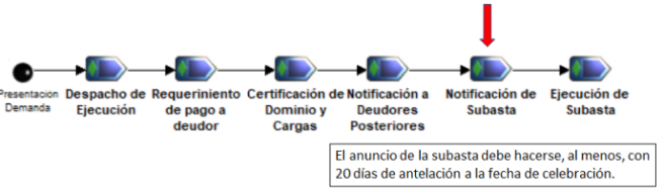
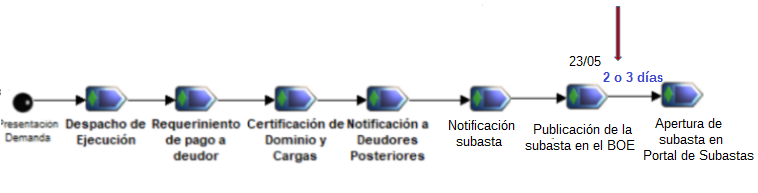
publio

Changed region(s): [[0.0, 0.0311, 0.994, 0.8394], [0.4819, 0.8705, 0.994, 0.9948], [0.7229, 0.0, 0.753, 0.2487]]

diff --git a/subasta/Informa/subasta.html b/subasta/Informa/subasta.html
@@ -13,13 +13,13 @@
 <h1>La ejecución hipotecaria</h1>
 <p>El acreedor hipotecario puede hacer efectivo su crédito a través de cuatro vías procesales una de las cuales es la ejecución (artículos 517 y siguientes de la Ley de Enjuiciamiento Civil (<a href="https://noticias.juridicas.com/base_datos/Privado/l1-2000.l3t1.html#l3" target="_blank">LEC</a>). (Se abre en una ventana nueva)
 </p>
-<p><img style="float:left;" src="../../Assets/images/Ejec.png" width="664" height="193" /> El gráfico muestra las diferentes etapas y el punto en que se encuentra el proceso: solo falta la publicación de la subasta, existiendo ya un <a href="../../Assets/Documentos/C-111010000112-EDICTO.pdf" target="_blank">edicto que anuncia su venta en pública subasta </a>y habiendo pagado el ejecutante las tasas correspondientes.</p>
+<p><img style="float:left;" src="../../Assets/images/Ejec.png" width="664" height="193" /> El gráfico muestra las diferentes etapas y el punto en que se encuentra el proceso: ya <a href="https://www.boe.es/boe/dias/2022/05/23/pdfs/BOE-B-2022-16228.pdf" target="_blank">se ha publicado en el BOE</a> y ya solo falta su apertura en el Portal de Subastas. La ley exige que el plazo entre ambos actos sea de al menos 24 horas.</p>
 
 <br><br><br>
 <h1>La subasta judicial</h1>
 <p>Conviene remarcar que, estando las llaves en poder de los ejecutantes y la vivienda protegida con una alarma anti intrusos Prosegur, una vez adjudicada la vivienda y ejecutados todos los trámites posteriores (<a href="../../Assets/Documentos/Guia-subastas_judiciales.pdf" target="_blank">Guía de Subastas Judiciales</a>) se hará entrega de las llaves al comprador.</p)</font>
 <p>En el caso de los inmuebles, solo se podrá visitar el interior, si existe dicha posibilidad por que el demandado propietario lo permita, cosa que se está intentando en este caso y ya se ha conseguido la entrega de las llaves al ejecutante.</p>
-<p>Una vez iniciado la activación de la subasta los ejecutantes, tras la autorización judicial, aparecerá en EL BOE el <a href="https://www.boe.es/boe/dias/2022/02/19/pdfs/BOE-B-2022-4863.pdf" target="_blank">anuncio de subasta</a> y, uno o dos días más tarde, aparecerá en el <a href="https://subastas.boe.es/detalleSubasta.php?idSub=SUB-JA-2021-180386" target="_blank">PORTAL DE SUBASTAS</a> del BOE donde se publicará el edicto de subasta así como cuantos datos y circunstancias sean relevantes para la misma (<em>art. 646.2 de la LEC</em>).</p>
+<p>Una vez iniciado la activación de la subasta los ejecutantes, tras la autorización judicial, aparecerá en EL BOE el <a href="https://www.boe.es/boe/dias/2022/02/19/pdfs/BOE-B-2022-4863.pdf" target="_blank">anuncio de subasta</a> y, dos o tres días más tarde, aparecerá en el <a href="https://subastas.boe.es/detalleSubasta.php?idSub=SUB-JA-2021-180386" target="_blank">PORTAL DE SUBASTAS</a> del BOE donde se publicará el edicto de subasta así como cuantos datos y circunstancias sean relevantes para la misma (<em>art. 646.2 de la LEC</em>).</p>
 <p>Aunque los interesados en participar en la subasta pueden tener acceso a la<strong><a href="file:../../Assets/Documentos/Certificacion Dominio con Resumen.pdf"" target="_blank"> certificación de dominio y cargas</a></strong> (Se abrirá en una nueva ventana), esta es de hace cuatro años, por lo que es conveniente solicitar una nueva al Registro de la Propiedad o una nota simple actualizada.</p>
 <p>Esta información, sirve para conocer si el que adquiere un bien en la subasta tiene que asumir o no el pago de embargos, hipotecas o cualquier otra carga. En el caso de que existan varias cargas, podemos conocer cuál es la que da lugar a la subasta . Por el solo hecho de participar en la subasta, el postor tiene que admitir las cargas o gravámenes que aparezcan en la certificación del Registro de la Propiedad y que sean anteriores al crédito del actor que da lugar a la subasta y sigan subsistentes. En este caso <strong>no existen cargas anteriores</strong>. En el caso de que existan <strong>cargas posteriores</strong>, <strong>no tendrá que pagarlas</strong>, si no que se dedicará a su cancelación el exceso de la adjudicación sobre la cantidad debida, si este existe.<br> <p>En nuestro caso, en la <strong>Certificación de Dominio y Cargas</strong> se manifiesta que existen <strong>dos cargas</strong>:
 <ul>
